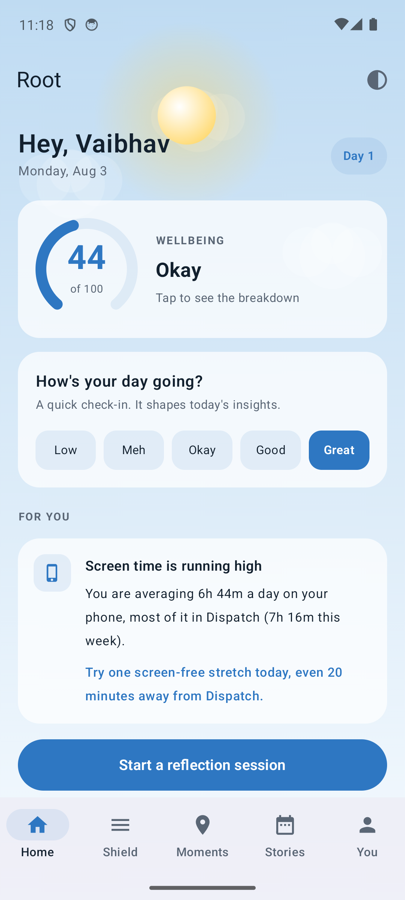
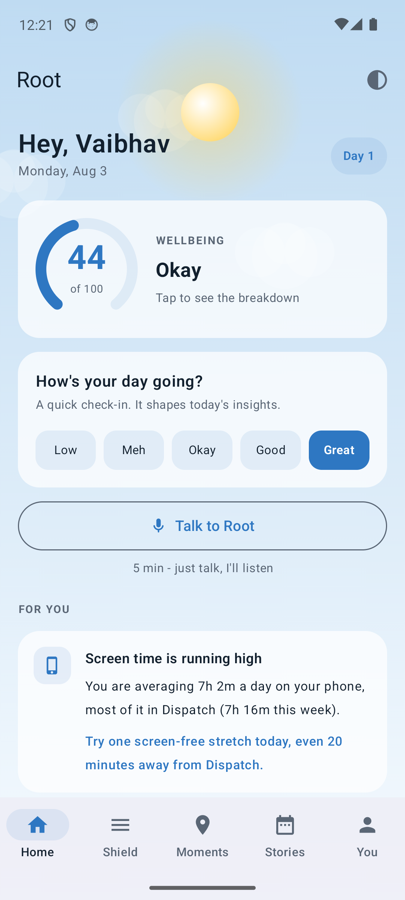
Home: move 'Talk to Root' up to just below the mood check-in (v0.4.1)

diff --git a/app/src/main/java/com/rootapp/ui/home/HomeScreen.kt b/app/src/main/java/com/rootapp/ui/home/HomeScreen.kt
@@ -202,6 +202,20 @@ fun HomeScreen(
                 },
             )
         }
+        Spacer(Modifier.height(14.dp))
+
+        // ---- talk to Root (quick voice) ----
+        OutlinedButton(onClick = onTalk, modifier = Modifier.fillMaxWidth().height(50.dp)) {
+            Icon(Icons.Rounded.Mic, contentDescription = null, tint = palette.accent, modifier = Modifier.size(18.dp))
+            Spacer(Modifier.width(8.dp))
+            Text("Talk to Root", fontSize = 15.sp, color = palette.accent)
+        }
+        Spacer(Modifier.height(6.dp))
+        Text(
+            text = "5 min - just talk, I'll listen",
+            fontSize = 12.sp, color = palette.dim,
+            textAlign = TextAlign.Center, modifier = Modifier.fillMaxWidth(),
+        )
         Spacer(Modifier.height(18.dp))
 
         // ---- "For you" insight cards ----
@@ -234,18 +248,6 @@ fun HomeScreen(
         Button(onClick = onStartReflection, modifier = Modifier.fillMaxWidth().height(52.dp)) {
             Text("Start a reflection session", fontSize = 15.sp, fontWeight = FontWeight.SemiBold)
         }
-        Spacer(Modifier.height(10.dp))
-        OutlinedButton(onClick = onTalk, modifier = Modifier.fillMaxWidth().height(50.dp)) {
-            Icon(Icons.Rounded.Mic, contentDescription = null, tint = palette.accent, modifier = Modifier.size(18.dp))
-            Spacer(Modifier.width(8.dp))
-            Text("Talk to Root", fontSize = 15.sp, color = palette.accent)
-        }
-        Spacer(Modifier.height(8.dp))
-        Text(
-            text = "5 min - just talk, I'll listen",
-            fontSize = 12.sp, color = palette.dim,
-            textAlign = TextAlign.Center, modifier = Modifier.fillMaxWidth(),
-        )
         Spacer(Modifier.height(24.dp))
     }
 }
